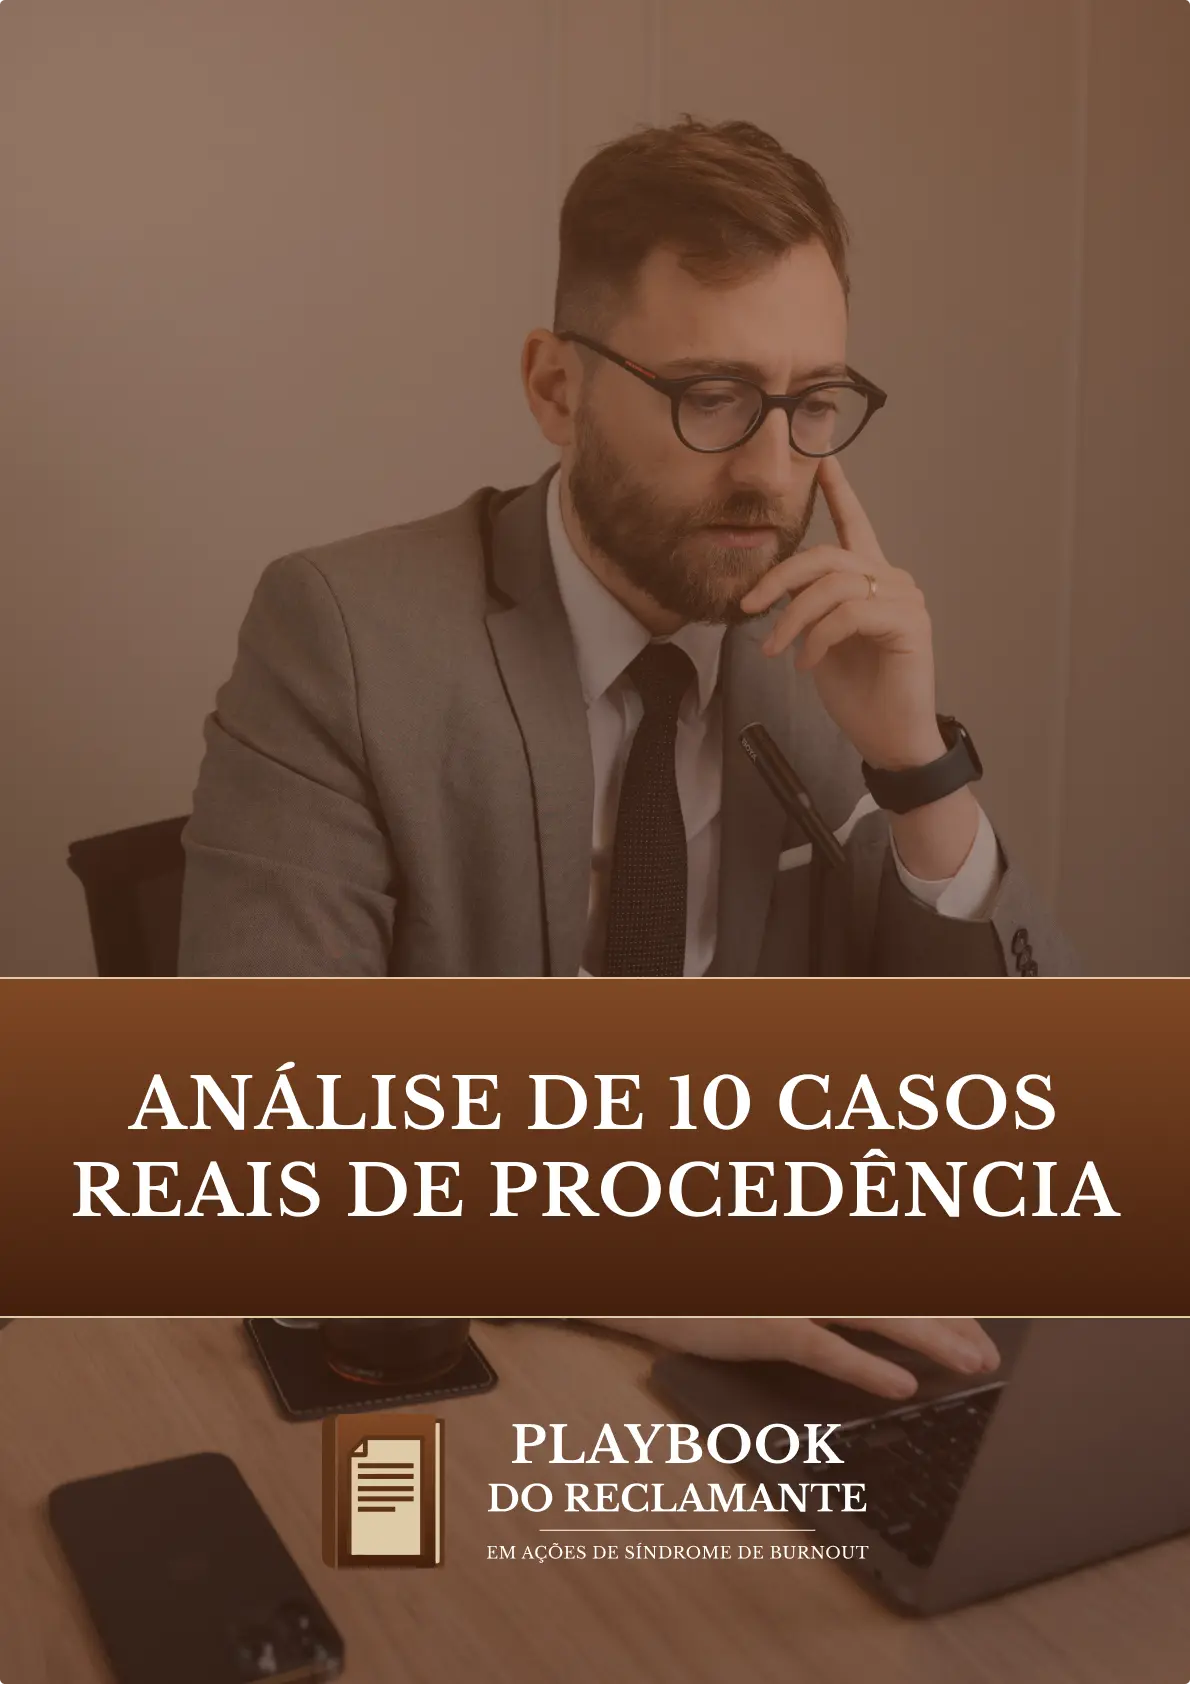
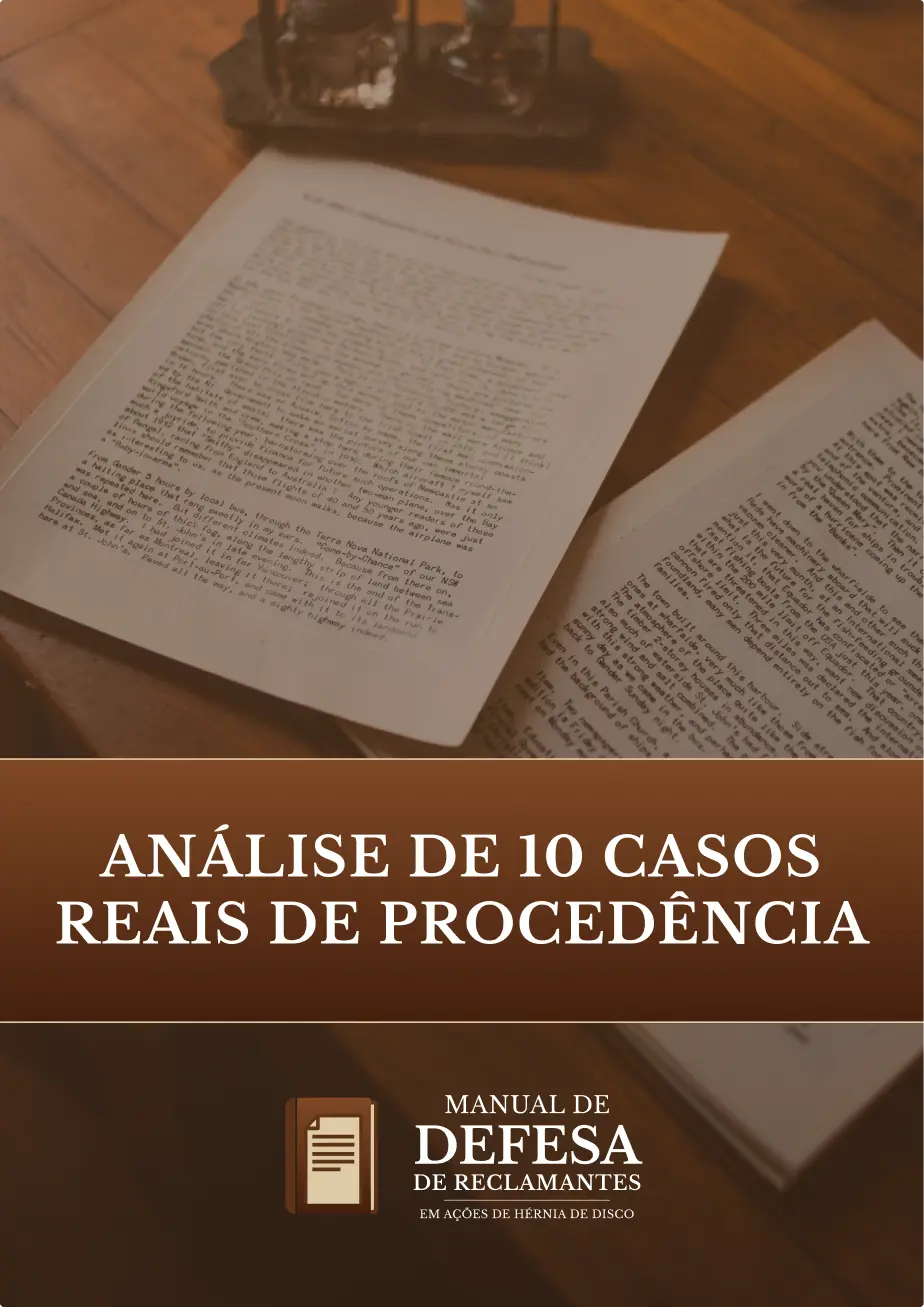
Atualiza textos, imagens, pixel e checkout da LP principal
- Textos e negritos nos cards de documentos
- Novo título serifa na seção de docs
- H1/H2 novos na seção de dores + nova bullet no card verde
- Título "Conheça o seu autor"
- Espaçamento entre docs-section e bonus-section
- Botão da oferta aponta para checkout Kiwify
- Novas imagens: hero e análise de 10 casos

diff --git a/src/App.jsx b/src/App.jsx
@@ -13,43 +13,43 @@ const docs = [
     img: '/doc-triagem.webp',
     coverTitle: 'CHECKLIST DE TRIAGEM DE CASOS',
     headline: 'Decida em minutos se vale a pena ajuizar a ação.',
-    desc: 'Checklist pronta para identificar casos com alto potencial, evitar ações com baixa viabilidade e reduzir o risco de improcedência antes mesmo da distribuição.',
+    desc: <>Checklist pronta para <strong>identificar casos com alto potencial, evitar ações com baixa viabilidade e reduzir o risco de improcedência</strong> antes mesmo da distribuição.</>,
   },
   {
     img: '/doc-peticao.webp',
     coverTitle: 'MODELO DE PETIÇÃO INICIAL COM 4 BLOCOS PRONTOS PARA COPIAR E COLAR',
-    headline: 'Pare de escrever petições de Burnout do zero.',
-    desc: 'Tenha acesso à estrutura completa de petição inicial que utilizo no meu escritório, acompanhada dos principais blocos argumentativos para copiar, adaptar e utilizar imediatamente nos seus processos.',
+    headline: 'Não comece sua próxima inicial do zero.',
+    desc: <>Tenha acesso à <strong>estrutura completa de petição inicial que utilizo no meu escritório</strong>, acompanhada dos principais <u>blocos argumentativos para copiar, adaptar e utilizar imediatamente nos seus processos</u>.</>,
   },
   {
     img: '/doc-roteiro-audiencia.webp',
     coverTitle: 'ROTEIRO DE AUDIÊNCIA',
     headline: 'Perguntas prontas para extrair prova.',
-    desc: 'Perguntas para reclamante, preposto e testemunhas com foco em demonstrar pressão excessiva, metas abusivas, assédio e adoecimento ocupacional.',
+    desc: <>Perguntas para <strong>reclamante, preposto e testemunhas</strong> com foco em demonstrar pressão excessiva, metas abusivas, assédio e adoecimento ocupacional.</>,
   },
   {
     img: '/doc-quesitos-periciais.webp',
     coverTitle: 'MODELOS DE QUESITOS PERICIAIS',
-    headline: 'Pare de inventar perguntas para o perito.',
+    headline: 'Pare de improvisar perguntas para o perito.',
     desc: 'Quesitos prontos de nexo causal, dano e incapacidade para copiar, adaptar e utilizar imediatamente nas suas ações de Burnout e Doença Ocupacional.',
   },
   {
     img: '/doc-teses.webp',
     coverTitle: 'AS 9 PRINCIPAIS TESES DEFENSIVAS DESMONTADAS',
     headline: 'Saiba exatamente como enfrentar os argumentos mais comuns da defesa e dos peritos.',
-    desc: 'Refutações prontas para alegações como multifatorialidade, fatores pessoais, ausência de CAT, doenças pré-existentes, comorbidades e outras teses frequentemente utilizadas para afastar o nexo causal.',
+    desc: <>Refutações prontas para alegações como <strong>multifatorialidade, fatores pessoais, ausência de CAT, doenças pré-existentes, comorbidades</strong> e outras teses frequentemente utilizadas para afastar o nexo causal.</>,
   },
   {
     img: '/doc-recurso.webp',
     coverTitle: 'RECURSO ORDINÁRIO SIMPLIFICADO',
-    headline: 'Saiba exatamente o que fazer após uma improcedência.',
-    desc: 'Passo a passo para estruturar o recurso e enfrentar os fundamentos mais comuns utilizados para negar o nexo causal.',
+    headline: 'Uma improcedência não precisa ser o fim da ação.',
+    desc: 'Um roteiro objetivo para analisar a sentença, mapear os fundamentos da improcedência e estruturar o RO em pontos como preliminares, nexo causal, ônus da prova, dano, concausa, cálculo da indenização e prescrição.',
   },
   {
     img: '/doc-casos-reais.webp',
     coverTitle: 'ANÁLISE DE 10 CASOS REAIS DE PROCEDÊNCIA',
-    headline: 'Veja o que funcionou na prática.',
-    desc: 'A minha análise sobre 10 decisões favoráveis ao reclamante com destaque para as provas, estratégias e argumentos que levaram ao reconhecimento do Burnout como doença ocupacional.',
+    headline: 'Veja como o Burnout foi reconhecido em 10 processos reais.',
+    desc: <>A minha análise sobre 10 decisões favoráveis ao reclamante, destacando as <strong>provas produzidas</strong>, os <strong>fundamentos utilizados</strong> e os <strong>elementos que levaram ao reconhecimento do Burnout como doença ocupacional.</strong></>,
   },
 ]
 
@@ -103,9 +103,9 @@ function CountdownTimer() {
   )
 }
 
-function BuyButton() {
+function BuyButton({ href = '#oferta' }) {
   return (
-    <a href="#oferta" className="buy-btn">
+    <a href={href} className="buy-btn">
       <span>QUERO COMPRAR AGORA <br />COM DESCONTO!</span>
       <ArrowUpRight className="buy-btn-arrow-icon" />
     </a>
@@ -149,7 +149,8 @@ export default function App() {
       {/* PAINS */}
       <section className="pains-section">
         <div className="container">
-          <p className="pains-eyebrow">A maioria das ações de burnout são perdidas por falta de técnica.</p>
+          <p className="pains-eyebrow">Você não está perdendo ações de Burnout para o perito…</p>
+          <p className="pains-subeyebrow">Está perdendo para <strong>erros técnicos que nem sabe que está cometendo.</strong></p>
           <div className="pains-cards-grid">
             <div className="contrast-card contrast-card--red">
               <div className="contrast-card__accent-line contrast-card__accent-line--red" />
@@ -178,6 +179,7 @@ export default function App() {
                   'Provando o nexo causal com fundamentação técnico-científica irrefutável',
                   'Formulando quesitos cirúrgicos que direcionam a conclusão pericial',
                   'Maximizando condenações com materiais estratégicos já validados',
+                  'E enfrentando laudos desfavoráveis com teses técnicas previamente estruturadas.',
                 ].map((item, i) => (
                   <li key={i} className="contrast-card__item">
                     <span className="contrast-card__dot contrast-card__dot--green" />
@@ -198,7 +200,7 @@ export default function App() {
       {/* DOCS GRID */}
       <section className="docs-section">
         <div className="container">
-          <h2 className="section-title light">VEJA TUDO O QUE VOCÊ TERÁ ACESSO NO KIT COMPLETO:</h2>
+          <h2 className="section-title light docs-section-title">Veja tudo o que você terá acesso ao adquirir o material</h2>
           <div className="docs-grid">
             {docs.map((doc, i) => (
               <div key={i} className="doc-card">
@@ -268,7 +270,7 @@ export default function App() {
           <div className="offer-from">DE: <span className="price-striked-red">R$199,90</span></div>
           <div className="offer-from">POR</div>
           <div className="offer-price">R$19,90</div>
-          <BuyButton />
+          <BuyButton href="https://pay.kiwify.com.br/s3e7UO3?src=lp-1" />
           <PaymentBadge />
         </div>
       </section>
@@ -301,7 +303,7 @@ export default function App() {
       <section className="professor-section">
         <div className="professor-inner">
           <div className="professor-text">
-            <p className="professor-label">Conheça o seu professor</p>
+            <p className="professor-label">Conheça o seu autor</p>
             <p><strong>Felipe Scherer</strong> é advogado especialista em Direito do Trabalho, pós-graduado em Direito e Processo do Trabalho e sócio-proprietário do escritório FOLS Advocacia.</p>
             <p>Com mais de 10 anos de experiência, atuou em mais de 3.000 processos e obteve, com o seu escritório, <strong>mais de R$10 milhões de faturamento.</strong></p>
             <p>Autor do curso "Prática em Acidente de Trabalho 2.0", hoje Felipe também ajuda advogados que desejam ter o conhecimento e a segurança necessários para <strong>aumentar as suas probabilidades de êxito - e, consequentemente, seus honorários - nas ações de Acidente de Trabalho e Doença Ocupacional.</strong></p>

diff --git a/src/App.css b/src/App.css
@@ -357,8 +357,19 @@ body {
   text-align: center;
   color: rgba(255, 255, 255, 0.85);
   max-width: 720px;
-  margin: 0 auto 52px;
+  margin: 0 auto 12px;
   line-height: 1.35;
+}
+
+.pains-subeyebrow {
+  font-family: 'Libre Baskerville', serif;
+  font-size: clamp(17px, 2vw, 22px);
+  font-weight: 400;
+  text-align: center;
+  color: rgba(255, 255, 255, 0.70);
+  max-width: 620px;
+  margin: 0 auto 52px;
+  line-height: 1.45;
 }
 
 .pains-cards-grid {
@@ -481,11 +492,18 @@ body {
 /* ─── DOCS SECTION ─── */
 .docs-section {
   background: linear-gradient(135deg, #5f341a 0%, #2d140a 100%);
-  padding: 96px 0;
+  padding: 96px 0 40px;
 }
 
 .docs-section .section-title {
   font-size: clamp(29px, 4.2vw, 38px);
+}
+
+.docs-section-title {
+  font-family: 'Libre Baskerville', serif !important;
+  text-transform: none !important;
+  letter-spacing: 0 !important;
+  margin-bottom: 56px !important;
 }
 
 .docs-grid {
@@ -558,7 +576,7 @@ body {
 /* ─── BONUS SECTION ─── */
 .bonus-section {
   background: linear-gradient(180deg, #1a1a1a 0%, #0d0d0d 100%);
-  padding: 80px 0;
+  padding: 40px 0 80px;
 }
 
 .bonus-kicker {
